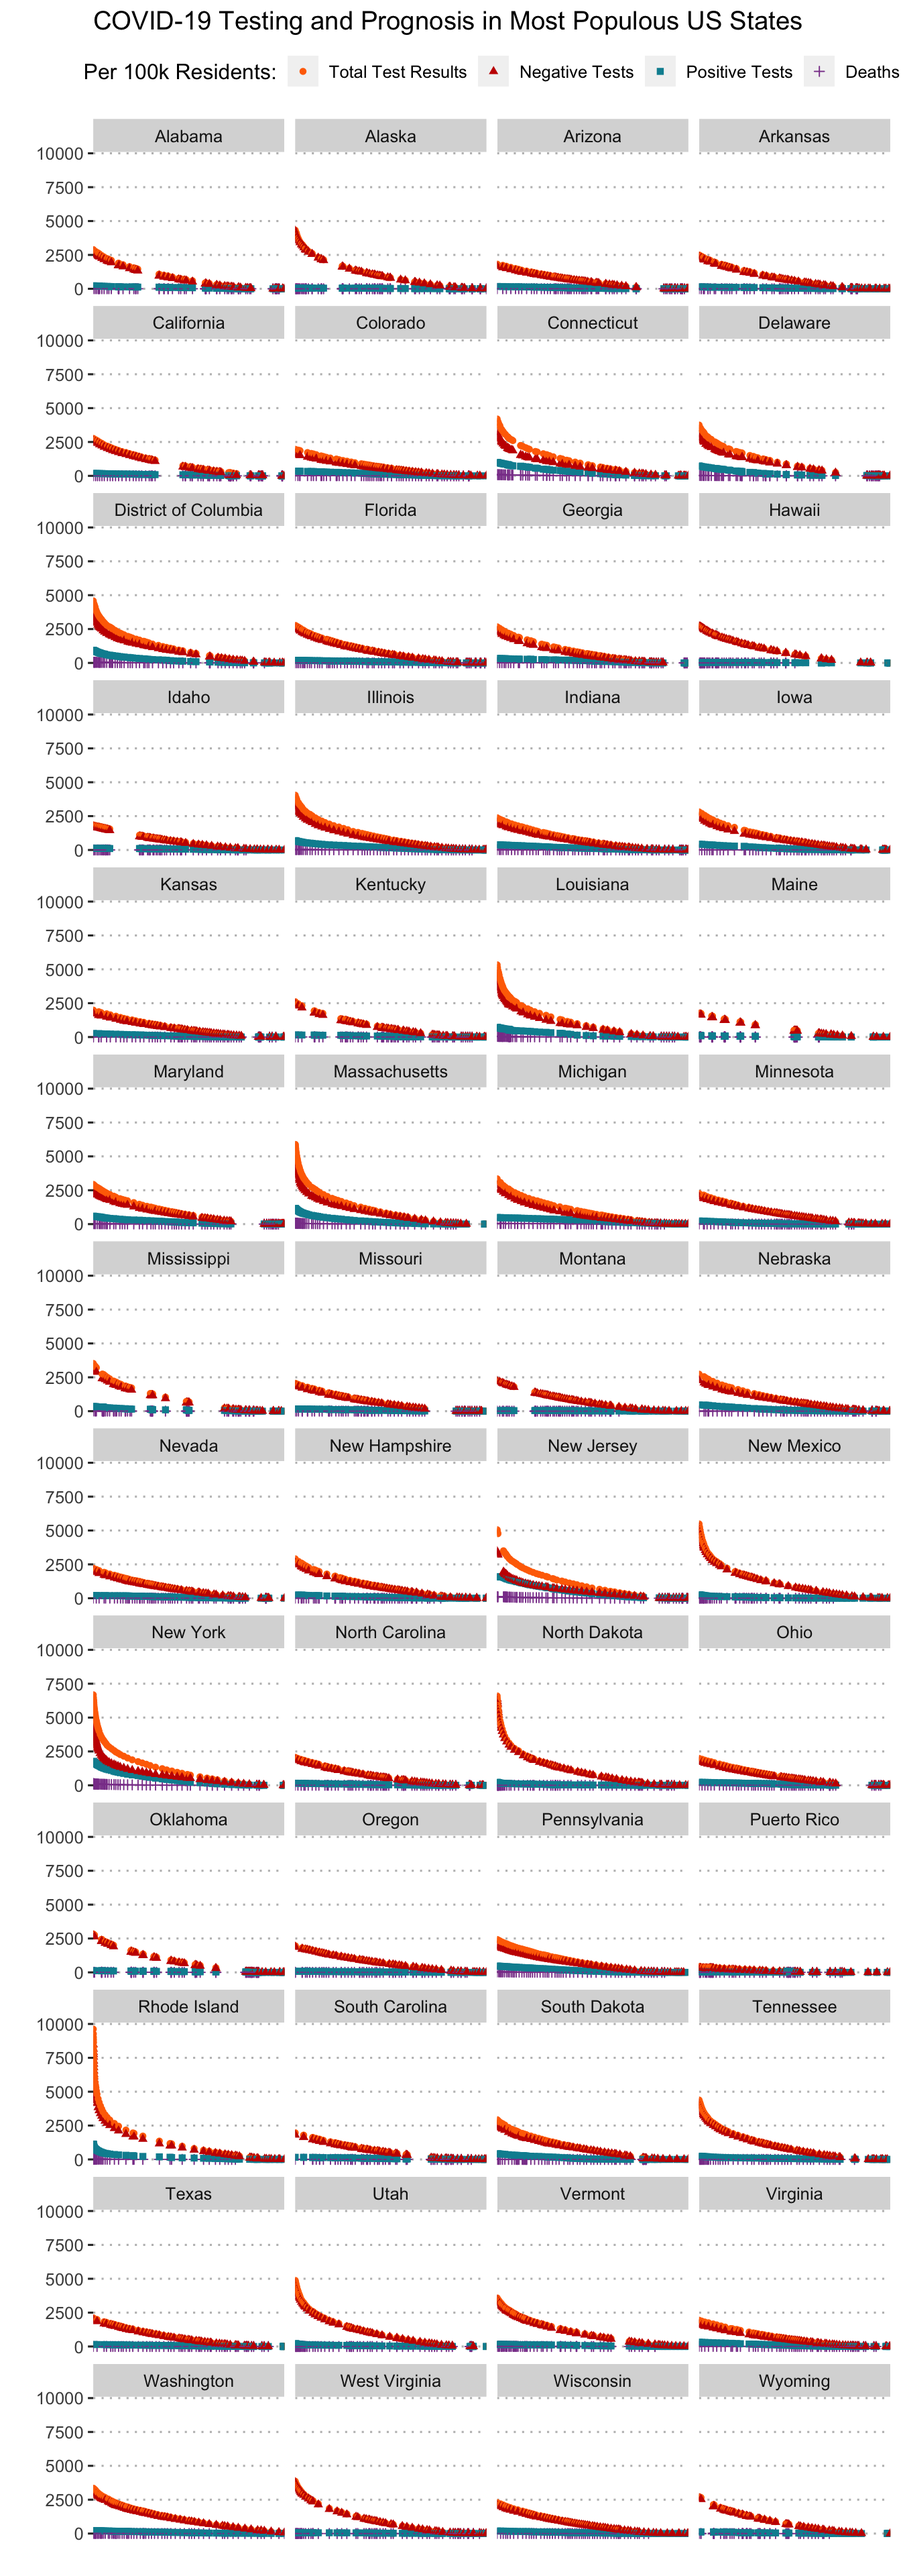
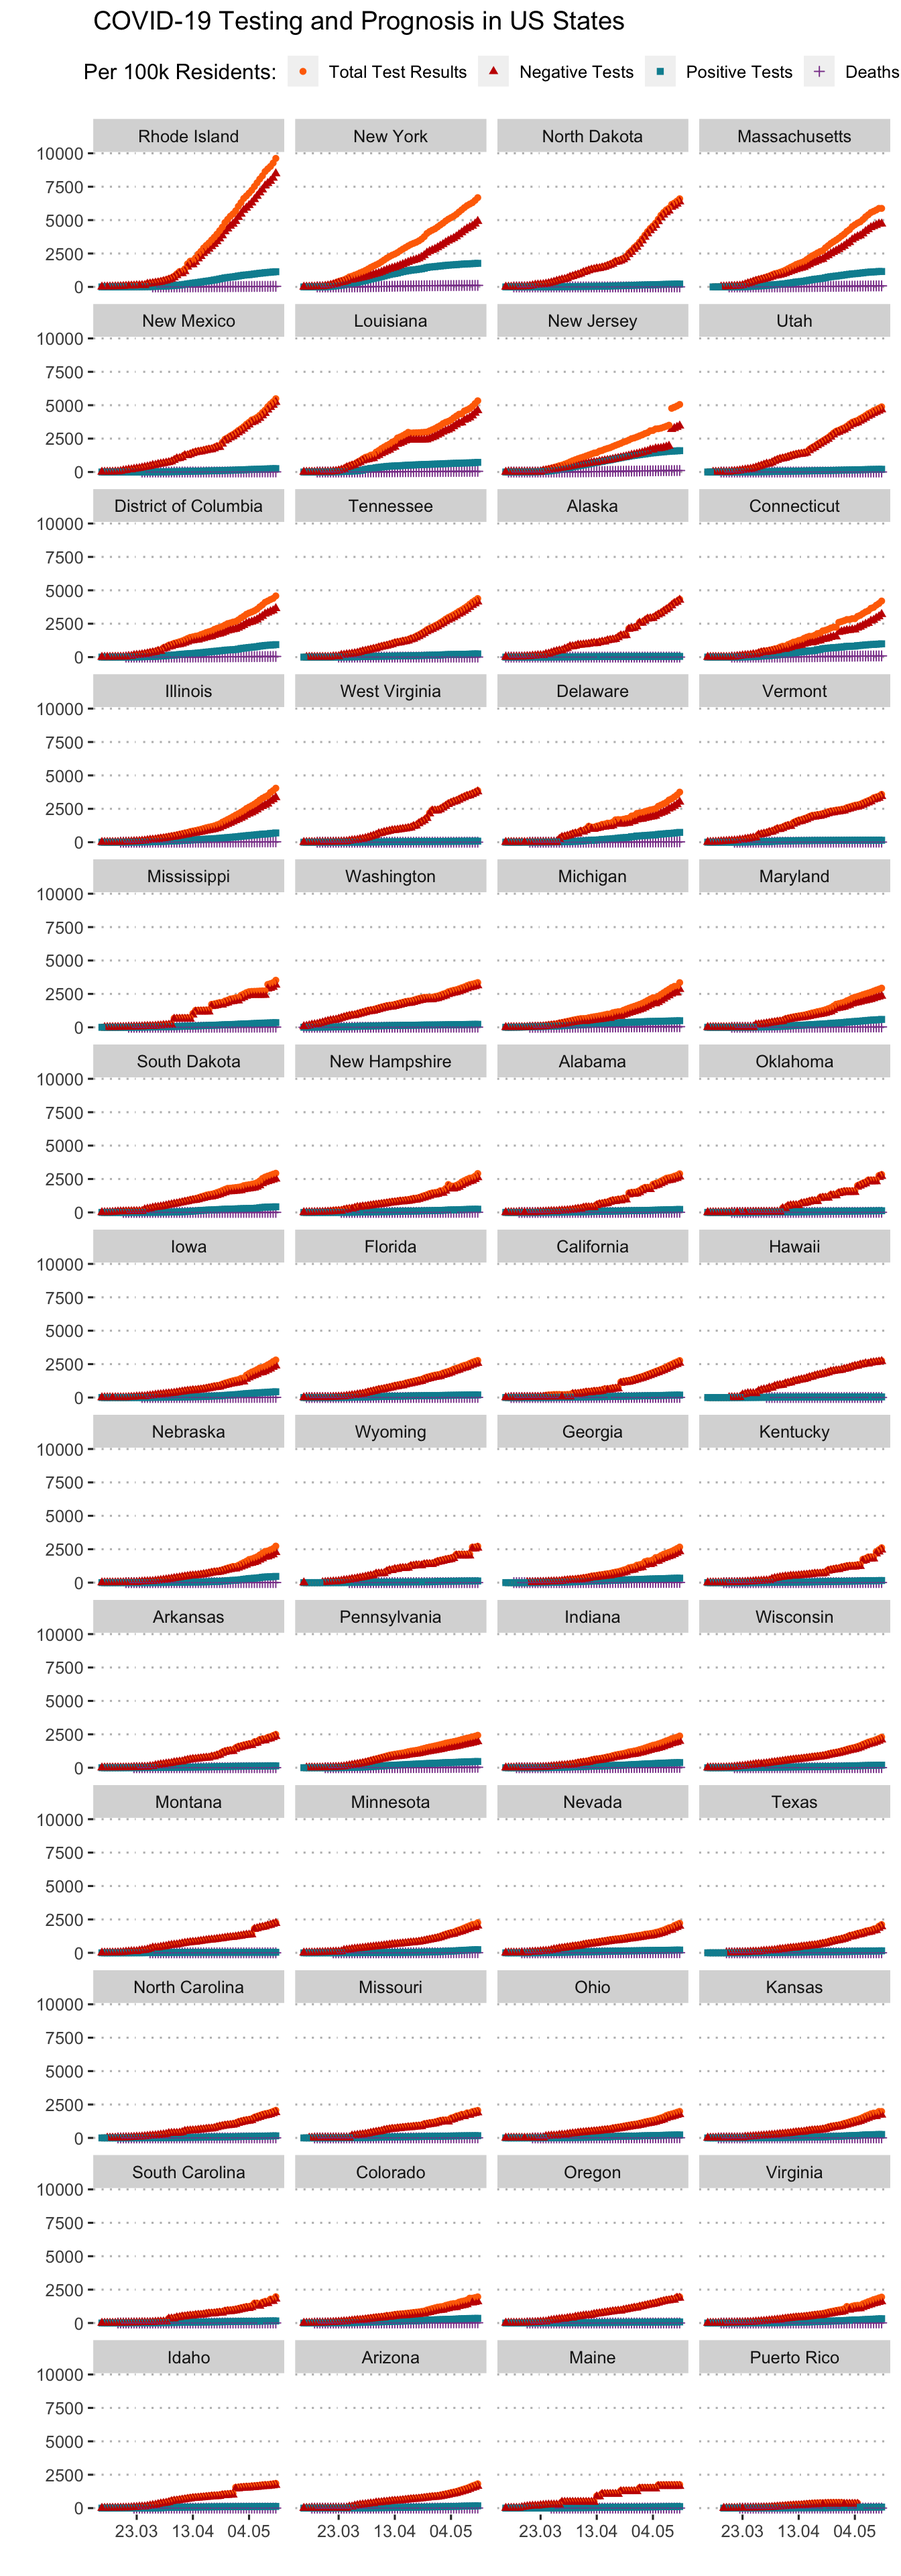
finished draft covid post

Changed region(s): [[0.0312, 0.0625, 1.0, 1.0], [0.5625, 0.0, 0.6875, 0.0312], [0.8125, 0.0, 0.875, 0.0312]]

diff --git a/content/posts/tidyverse-covid/index.html b/content/posts/tidyverse-covid/index.html
@@ -25,6 +25,7 @@ summary:
 <li><a href="#import">Import</a></li>
 <li><a href="#munge">Munge</a></li>
 <li><a href="#visualize">Visualize</a></li>
+<li><a href="#summarize">Summarize</a></li>
 </ul>
 </div>
 
@@ -34,10 +35,10 @@ summary:
 <div id="import" class="section level2">
 <h2>Import</h2>
 <p>Calling <code>library(tidyverse)</code> will load all the packages and functions we’ll need, including the pipe (<code>%&gt;%</code>) operator, but I will explicitly load <code>magrittr</code> so that I can use some aliases and the debatable but economical <code>%&lt;&gt;%</code> operator to save a variable in place without typing the name twice. I’m also going to load the <a href="https://lubridate.tidyverse.org/">lubridate</a> package for dealing with dates, and I always load the <a href="https://cran.r-project.org/web/packages/ggsci/vignettes/ggsci.html">ggsci</a> and <a href="https://rpkgs.datanovia.com/ggpubr/index.html">ggpubr</a> packages for my plots.</p>
-<pre class="r"><code>library(tidyverse)
+<pre class="r"><code># library(covid19us) 
+library(tidyverse)
 library(magrittr)
 library(lubridate)
-# library(covid19us) 
 library(ggsci) 
 library(ggpubr)</code></pre>
 <p>Then, let’s load the complete longitudinal dataset, which defaults to a tibble and select the testing variables that will be relevant for our analysis.</p>
@@ -224,25 +225,28 @@ testing.data %&gt;%
 <p>Once I start making “plot tidy” manipulations I create a new <code>plot.data</code> tibble That way, I have my <code>testing.data</code> tibble available for console sidebars to help me refine the information in <code>plot.data</code> according to what I want <code>ggplot2</code> to use and display.</p>
 <!-- https://stackoverflow.com/questions/41199496/order-of-factor-levels-in-facet-wrap -->
 <pre class="r"><code>plot.data &lt;- testing.data %&gt;%
+    group_by(full_name) %&gt;%
     arrange(desc(tests.std)) %&gt;%
-    #mutate(ordered = paste0(date,&#39;,&#39;,std.metric))
-    mutate(ordered = 1:n())
+    nest() %&gt;%
+    ungroup() %&gt;%
+    mutate(ordered = 1:n()) %&gt;%
+    unnest(data)
 
 plot.data %&gt;%
-    select(c(&#39;tests.std&#39;,&#39;ordered&#39;))</code></pre>
-<pre><code>## # A tibble: 3,424 x 2
-##    tests.std ordered
-##        &lt;dbl&gt;   &lt;int&gt;
-##  1     9620.       1
-##  2     9272.       2
-##  3     9017.       3
-##  4     8837.       4
-##  5     8636.       5
-##  6     8315.       6
-##  7     8073.       7
-##  8     7794.       8
-##  9     7515.       9
-## 10     7237.      10
+    select(c(&#39;full_name&#39;,&#39;tests.std&#39;,&#39;ordered&#39;))</code></pre>
+<pre><code>## # A tibble: 3,424 x 3
+##    full_name    tests.std ordered
+##    &lt;chr&gt;            &lt;dbl&gt;   &lt;int&gt;
+##  1 Rhode Island     9620.       1
+##  2 Rhode Island     9272.       1
+##  3 Rhode Island     9017.       1
+##  4 Rhode Island     8837.       1
+##  5 Rhode Island     8636.       1
+##  6 Rhode Island     8315.       1
+##  7 Rhode Island     8073.       1
+##  8 Rhode Island     7794.       1
+##  9 Rhode Island     7515.       1
+## 10 Rhode Island     7237.       1
 ## # … with 3,414 more rows</code></pre>
 <p>Now we have to collapse our four testing variables like we did earlier but didn’t save. We’ll use the same command we did above, except we will also include our new <code>ordered</code> column in the excluded variables parameter, and we’ll be calling it on <code>plot.data</code> this time.</p>
 <pre class="r"><code>plot.data %&lt;&gt;%
@@ -258,14 +262,14 @@ plot.data</code></pre>
 ##  2 Rhode Island 2020-05-14       1 deaths.std        44.3
 ##  3 Rhode Island 2020-05-14       1 positive.std    1138. 
 ##  4 Rhode Island 2020-05-14       1 negative.std    8482. 
-##  5 Rhode Island 2020-05-13       2 tests.std       9272. 
-##  6 Rhode Island 2020-05-13       2 deaths.std        43.7
-##  7 Rhode Island 2020-05-13       2 positive.std    1121. 
-##  8 Rhode Island 2020-05-13       2 negative.std    8151. 
-##  9 Rhode Island 2020-05-12       3 tests.std       9017. 
-## 10 Rhode Island 2020-05-12       3 deaths.std        42.0
+##  5 Rhode Island 2020-05-13       1 tests.std       9272. 
+##  6 Rhode Island 2020-05-13       1 deaths.std        43.7
+##  7 Rhode Island 2020-05-13       1 positive.std    1121. 
+##  8 Rhode Island 2020-05-13       1 negative.std    8151. 
+##  9 Rhode Island 2020-05-12       1 tests.std       9017. 
+## 10 Rhode Island 2020-05-12       1 deaths.std        42.0
 ## # … with 13,686 more rows</code></pre>
-<p>Finally, we’ll order our <code>std.metric</code> variable and change the names to be a bit more intuitive.</p>
+<p>Finally, we’ll beautify <code>plot.data</code> and order our <code>std.metric</code> variable and change the names to be a bit more intuitive for the final plots.</p>
 <pre class="r"><code>plot.data %&lt;&gt;%
     mutate_at(vars(std.metric), ~ fct_relevel(., &#39;tests.std&#39;,&#39;negative.std&#39;,
                                               &#39;positive.std&#39;,&#39;deaths.std&#39;)) %&gt;%
@@ -273,38 +277,49 @@ plot.data</code></pre>
                                               `Total Test Results` = &#39;tests.std&#39;,
                                              `Negative Tests` = &#39;negative.std&#39;,
                                               `Positive Tests` = &#39;positive.std&#39;,
-                                              `Deaths` = &#39;deaths.std&#39;)) </code></pre>
+                                              `Deaths` = &#39;deaths.std&#39;)) %&gt;%
+    mutate_at(vars(full_name), ~ fct_reorder(., ordered))
+
+plot.data</code></pre>
+<pre><code>## # A tibble: 13,696 x 5
+##    full_name    date       ordered std.metric         std.value
+##    &lt;fct&gt;        &lt;date&gt;       &lt;int&gt; &lt;fct&gt;                  &lt;dbl&gt;
+##  1 Rhode Island 2020-05-14       1 Total Test Results    9620. 
+##  2 Rhode Island 2020-05-14       1 Deaths                  44.3
+##  3 Rhode Island 2020-05-14       1 Positive Tests        1138. 
+##  4 Rhode Island 2020-05-14       1 Negative Tests        8482. 
+##  5 Rhode Island 2020-05-13       1 Total Test Results    9272. 
+##  6 Rhode Island 2020-05-13       1 Deaths                  43.7
+##  7 Rhode Island 2020-05-13       1 Positive Tests        1121. 
+##  8 Rhode Island 2020-05-13       1 Negative Tests        8151. 
+##  9 Rhode Island 2020-05-12       1 Total Test Results    9017. 
+## 10 Rhode Island 2020-05-12       1 Deaths                  42.0
+## # … with 13,686 more rows</code></pre>
 <pre class="r"><code>y.axis.max &lt;- plot.data %&gt;%
     magrittr::use_series(std.value) %&gt;%
     na.omit() %&gt;%
     max() %&gt;%
     ceiling()
 
-# finally, plot our data
 testing.plot &lt;- plot.data %&gt;%
-    #filter(!is.na(full_name) &amp; full_name != &#39;District Of Columbia&#39;) %&gt;%
-    ggplot(aes(x = ordered, y = std.value)) +
+    ggplot(aes(x = date, y = std.value)) +
     geom_point(aes(color = std.metric, shape = std.metric)) +
-    # label every week on the major x axis and draw a line for each day
-    # scale_x_date(
-    #              date_breaks = &#39;3 weeks&#39;,
-    #              #date_minor_breaks = &#39;1 day&#39;,
-    #              date_labels = &#39;%d.%m&#39;) +
-    # add custom y-axis breaks
-    # scale_y_continuous(breaks = seq(300, y.axis.max, 300), 
-    #                    minor_breaks = seq(100, y.axis.max, 100)) +
+    # label every 3 weeks on the major x axis
+    scale_x_date(date_breaks = &#39;3 weeks&#39;,
+                 date_labels = &#39;%d.%m&#39;) +
     # my personal favorite color palette
     scale_color_futurama() +
-    # make a grid; toggle scale = free on and off for different y-axes
-    facet_wrap(~ full_name, ncol = 4, scale = &#39;free_x&#39;) +
-    scale_x_discrete(labels = as.character(plot.data$date)) +
+    facet_wrap(~ full_name, ncol = 4) +
     # add title, remove x+y axis labels and legends
-    labs(title = &#39;COVID-19 Testing and Prognosis in Most Populous US States&#39;,
+    labs(title = &#39;COVID-19 Testing and Prognosis in US States&#39;,
          x = &#39;&#39;, y = &#39;&#39;, color = &#39;Per 100k Residents:&#39;, shape = &#39;Per 100k Residents:&#39;) +
     theme_pubclean()
 
 testing.plot</code></pre>
-<p><img src="/posts/tidyverse-covid/index_files/figure-html/unnamed-chunk-3-1.png" width="672" /> ## Summarize</p>
+<p><img src="/posts/tidyverse-covid/index_files/figure-html/unnamed-chunk-3-1.png" width="672" /></p>
+</div>
+<div id="summarize" class="section level2">
+<h2>Summarize</h2>
 <style type="text/css">
 img {
     display: block;

diff --git a/public/posts/tidyverse-covid-19/index.html b/public/posts/tidyverse-covid-19/index.html
@@ -69,6 +69,7 @@
 <li><a href="#import">Import</a></li>
 <li><a href="#munge">Munge</a></li>
 <li><a href="#visualize">Visualize</a></li>
+<li><a href="#summarize">Summarize</a></li>
 </ul>
 </div>
 
@@ -78,10 +79,10 @@
 <div id="import" class="section level2">
 <h2>Import</h2>
 <p>Calling <code>library(tidyverse)</code> will load all the packages and functions we’ll need, including the pipe (<code>%&gt;%</code>) operator, but I will explicitly load <code>magrittr</code> so that I can use some aliases and the debatable but economical <code>%&lt;&gt;%</code> operator to save a variable in place without typing the name twice. I’m also going to load the <a href="https://lubridate.tidyverse.org/">lubridate</a> package for dealing with dates, and I always load the <a href="https://cran.r-project.org/web/packages/ggsci/vignettes/ggsci.html">ggsci</a> and <a href="https://rpkgs.datanovia.com/ggpubr/index.html">ggpubr</a> packages for my plots.</p>
-<pre class="r"><code>library(tidyverse)
+<pre class="r"><code># library(covid19us) 
+library(tidyverse)
 library(magrittr)
 library(lubridate)
-# library(covid19us) 
 library(ggsci) 
 library(ggpubr)</code></pre>
 <p>Then, let’s load the complete longitudinal dataset, which defaults to a tibble and select the testing variables that will be relevant for our analysis.</p>
@@ -268,25 +269,28 @@ testing.data %&gt;%
 <p>Once I start making “plot tidy” manipulations I create a new <code>plot.data</code> tibble That way, I have my <code>testing.data</code> tibble available for console sidebars to help me refine the information in <code>plot.data</code> according to what I want <code>ggplot2</code> to use and display.</p>
 <!-- https://stackoverflow.com/questions/41199496/order-of-factor-levels-in-facet-wrap -->
 <pre class="r"><code>plot.data &lt;- testing.data %&gt;%
+    group_by(full_name) %&gt;%
     arrange(desc(tests.std)) %&gt;%
-    #mutate(ordered = paste0(date,&#39;,&#39;,std.metric))
-    mutate(ordered = 1:n())
+    nest() %&gt;%
+    ungroup() %&gt;%
+    mutate(ordered = 1:n()) %&gt;%
+    unnest(data)
 
 plot.data %&gt;%
-    select(c(&#39;tests.std&#39;,&#39;ordered&#39;))</code></pre>
-<pre><code>## # A tibble: 3,424 x 2
-##    tests.std ordered
-##        &lt;dbl&gt;   &lt;int&gt;
-##  1     9620.       1
-##  2     9272.       2
-##  3     9017.       3
-##  4     8837.       4
-##  5     8636.       5
-##  6     8315.       6
-##  7     8073.       7
-##  8     7794.       8
-##  9     7515.       9
-## 10     7237.      10
+    select(c(&#39;full_name&#39;,&#39;tests.std&#39;,&#39;ordered&#39;))</code></pre>
+<pre><code>## # A tibble: 3,424 x 3
+##    full_name    tests.std ordered
+##    &lt;chr&gt;            &lt;dbl&gt;   &lt;int&gt;
+##  1 Rhode Island     9620.       1
+##  2 Rhode Island     9272.       1
+##  3 Rhode Island     9017.       1
+##  4 Rhode Island     8837.       1
+##  5 Rhode Island     8636.       1
+##  6 Rhode Island     8315.       1
+##  7 Rhode Island     8073.       1
+##  8 Rhode Island     7794.       1
+##  9 Rhode Island     7515.       1
+## 10 Rhode Island     7237.       1
 ## # … with 3,414 more rows</code></pre>
 <p>Now we have to collapse our four testing variables like we did earlier but didn’t save. We’ll use the same command we did above, except we will also include our new <code>ordered</code> column in the excluded variables parameter, and we’ll be calling it on <code>plot.data</code> this time.</p>
 <pre class="r"><code>plot.data %&lt;&gt;%
@@ -302,14 +306,14 @@ plot.data</code></pre>
 ##  2 Rhode Island 2020-05-14       1 deaths.std        44.3
 ##  3 Rhode Island 2020-05-14       1 positive.std    1138. 
 ##  4 Rhode Island 2020-05-14       1 negative.std    8482. 
-##  5 Rhode Island 2020-05-13       2 tests.std       9272. 
-##  6 Rhode Island 2020-05-13       2 deaths.std        43.7
-##  7 Rhode Island 2020-05-13       2 positive.std    1121. 
-##  8 Rhode Island 2020-05-13       2 negative.std    8151. 
-##  9 Rhode Island 2020-05-12       3 tests.std       9017. 
-## 10 Rhode Island 2020-05-12       3 deaths.std        42.0
+##  5 Rhode Island 2020-05-13       1 tests.std       9272. 
+##  6 Rhode Island 2020-05-13       1 deaths.std        43.7
+##  7 Rhode Island 2020-05-13       1 positive.std    1121. 
+##  8 Rhode Island 2020-05-13       1 negative.std    8151. 
+##  9 Rhode Island 2020-05-12       1 tests.std       9017. 
+## 10 Rhode Island 2020-05-12       1 deaths.std        42.0
 ## # … with 13,686 more rows</code></pre>
-<p>Finally, we’ll order our <code>std.metric</code> variable and change the names to be a bit more intuitive.</p>
+<p>Finally, we’ll beautify <code>plot.data</code> and order our <code>std.metric</code> variable and change the names to be a bit more intuitive for the final plots.</p>
 <pre class="r"><code>plot.data %&lt;&gt;%
     mutate_at(vars(std.metric), ~ fct_relevel(., &#39;tests.std&#39;,&#39;negative.std&#39;,
                                               &#39;positive.std&#39;,&#39;deaths.std&#39;)) %&gt;%
@@ -317,38 +321,49 @@ plot.data</code></pre>
                                               `Total Test Results` = &#39;tests.std&#39;,
                                              `Negative Tests` = &#39;negative.std&#39;,
                                               `Positive Tests` = &#39;positive.std&#39;,
-                                              `Deaths` = &#39;deaths.std&#39;)) </code></pre>
+                                              `Deaths` = &#39;deaths.std&#39;)) %&gt;%
+    mutate_at(vars(full_name), ~ fct_reorder(., ordered))
+
+plot.data</code></pre>
+<pre><code>## # A tibble: 13,696 x 5
+##    full_name    date       ordered std.metric         std.value
+##    &lt;fct&gt;        &lt;date&gt;       &lt;int&gt; &lt;fct&gt;                  &lt;dbl&gt;
+##  1 Rhode Island 2020-05-14       1 Total Test Results    9620. 
+##  2 Rhode Island 2020-05-14       1 Deaths                  44.3
+##  3 Rhode Island 2020-05-14       1 Positive Tests        1138. 
+##  4 Rhode Island 2020-05-14       1 Negative Tests        8482. 
+##  5 Rhode Island 2020-05-13       1 Total Test Results    9272. 
+##  6 Rhode Island 2020-05-13       1 Deaths                  43.7
+##  7 Rhode Island 2020-05-13       1 Positive Tests        1121. 
+##  8 Rhode Island 2020-05-13       1 Negative Tests        8151. 
+##  9 Rhode Island 2020-05-12       1 Total Test Results    9017. 
+## 10 Rhode Island 2020-05-12       1 Deaths                  42.0
+## # … with 13,686 more rows</code></pre>
 <pre class="r"><code>y.axis.max &lt;- plot.data %&gt;%
     magrittr::use_series(std.value) %&gt;%
     na.omit() %&gt;%
     max() %&gt;%
     ceiling()
 
-# finally, plot our data
 testing.plot &lt;- plot.data %&gt;%
-    #filter(!is.na(full_name) &amp; full_name != &#39;District Of Columbia&#39;) %&gt;%
-    ggplot(aes(x = ordered, y = std.value)) +
+    ggplot(aes(x = date, y = std.value)) +
     geom_point(aes(color = std.metric, shape = std.metric)) +
-    # label every week on the major x axis and draw a line for each day
-    # scale_x_date(
-    #              date_breaks = &#39;3 weeks&#39;,
-    #              #date_minor_breaks = &#39;1 day&#39;,
-    #              date_labels = &#39;%d.%m&#39;) +
-    # add custom y-axis breaks
-    # scale_y_continuous(breaks = seq(300, y.axis.max, 300), 
-    #                    minor_breaks = seq(100, y.axis.max, 100)) +
+    # label every 3 weeks on the major x axis
+    scale_x_date(date_breaks = &#39;3 weeks&#39;,
+                 date_labels = &#39;%d.%m&#39;) +
     # my personal favorite color palette
     scale_color_futurama() +
-    # make a grid; toggle scale = free on and off for different y-axes
-    facet_wrap(~ full_name, ncol = 4, scale = &#39;free_x&#39;) +
-    scale_x_discrete(labels = as.character(plot.data$date)) +
+    facet_wrap(~ full_name, ncol = 4) +
     # add title, remove x+y axis labels and legends
-    labs(title = &#39;COVID-19 Testing and Prognosis in Most Populous US States&#39;,
+    labs(title = &#39;COVID-19 Testing and Prognosis in US States&#39;,
          x = &#39;&#39;, y = &#39;&#39;, color = &#39;Per 100k Residents:&#39;, shape = &#39;Per 100k Residents:&#39;) +
     theme_pubclean()
 
 testing.plot</code></pre>
-<p><img src="/posts/tidyverse-covid/index_files/figure-html/unnamed-chunk-3-1.png" width="672" /> ## Summarize</p>
+<p><img src="/posts/tidyverse-covid/index_files/figure-html/unnamed-chunk-3-1.png" width="672" /></p>
+</div>
+<div id="summarize" class="section level2">
+<h2>Summarize</h2>
 <style type="text/css">
 img {
     display: block;
